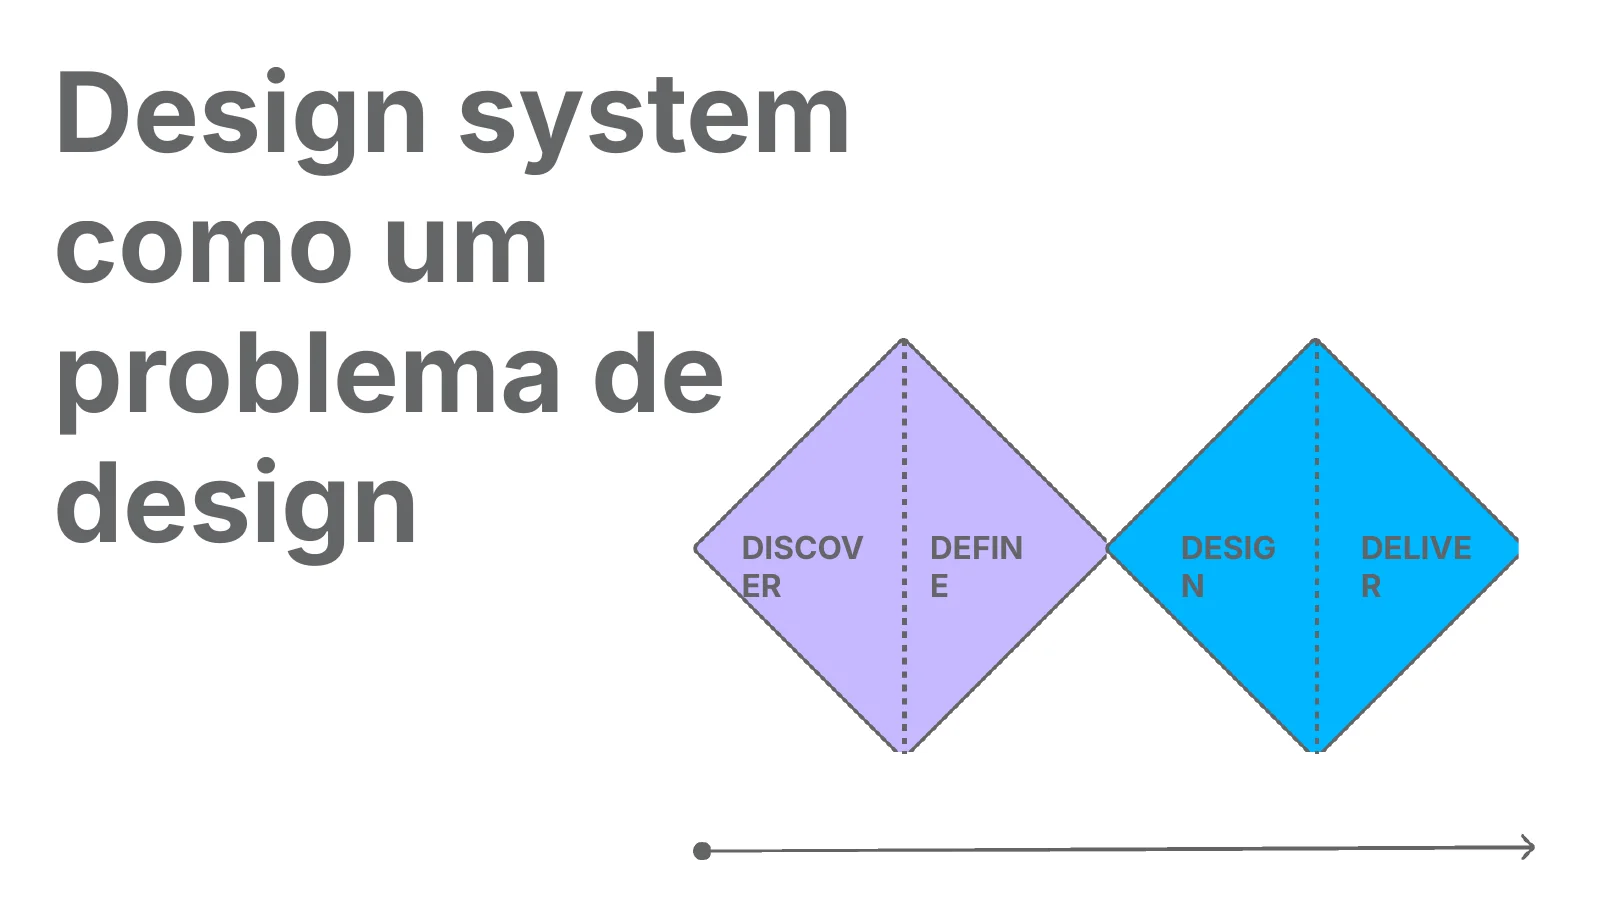
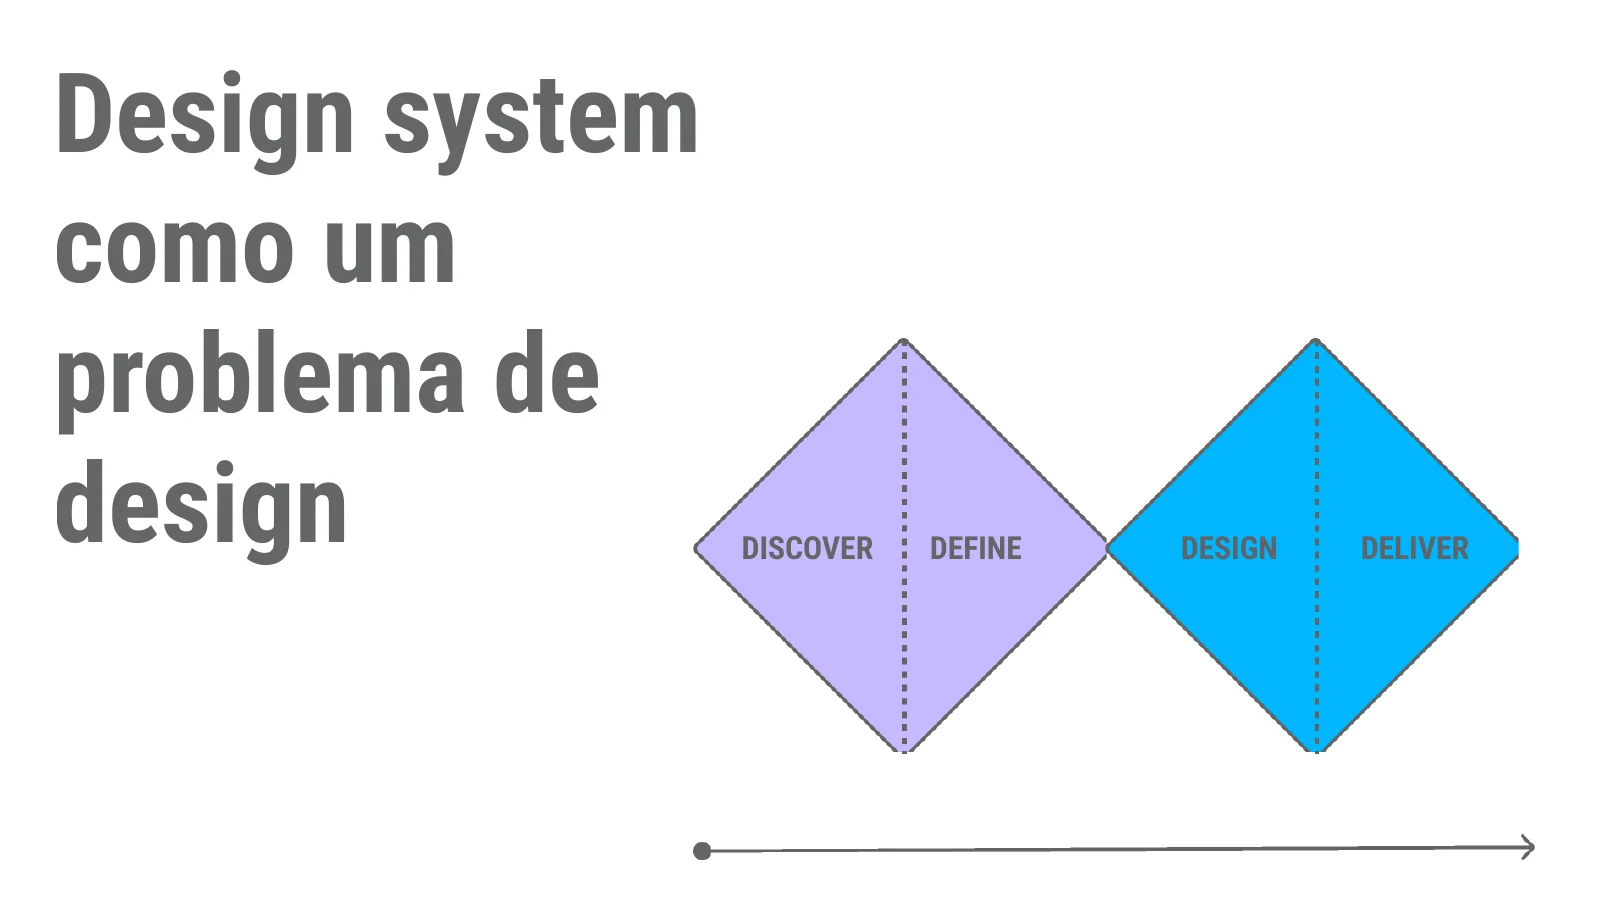
Projetos: pranchas refeitas com as fontes originais do portfólio
As imagens da Instor, Renner, Casas Bahia e Omie.AI tinham sido geradas sem
as fontes do PowerPoint (Roboto, Roboto Condensed, Inter, Rubik, Space Mono,
Lato e outras), o que quebrava palavras nos títulos. Refeitas com as fontes
instaladas; o rótulo 'Autônomo' do App Jaci foi redesenhado.

Claude-Session: https://claude.ai/code/session_01PnnAbeNSDbDnZVTbQcBYbS

diff --git a/projetos/renner/index.html b/projetos/renner/index.html
@@ -79,7 +79,7 @@
         </section>
         <section class="case-block"><p class="eyebrow">Workshop</p><h2 class="case-h2">O menu desenhado por departamento</h2>
           <div class="case-boards">
-          <figure class="case-board"><img src="../../assets/projetos/renner/02.webp" width="896" height="739" alt="Quadro do workshop com a estrutura do menu por departamento" loading="lazy" decoding="async" /><figcaption><span>02</span>Workshop com stakeholders</figcaption></figure>
+          <figure class="case-board"><img src="../../assets/projetos/renner/02.webp" width="1600" height="901" alt="Quadro do workshop com a estrutura do menu por departamento" loading="lazy" decoding="async" /><figcaption><span>02</span>Workshop com stakeholders</figcaption></figure>
           </div>
         </section>
         <section class="case-block"><p class="eyebrow">Entregas</p><h2 class="case-h2">Da pesquisa ao menu</h2>
@@ -115,7 +115,7 @@
         </section>
         <section class="case-block"><p class="eyebrow">Workshop</p><h2 class="case-h2">The menu mapped by department</h2>
           <div class="case-boards">
-          <figure class="case-board"><img src="../../assets/projetos/renner/02.webp" width="896" height="739" alt="Workshop board with the menu structure by department" loading="lazy" decoding="async" /><figcaption><span>02</span>Stakeholder workshop</figcaption></figure>
+          <figure class="case-board"><img src="../../assets/projetos/renner/02.webp" width="1600" height="901" alt="Workshop board with the menu structure by department" loading="lazy" decoding="async" /><figcaption><span>02</span>Stakeholder workshop</figcaption></figure>
           </div>
         </section>
         <section class="case-block"><p class="eyebrow">Deliverables</p><h2 class="case-h2">From research to menu</h2>
